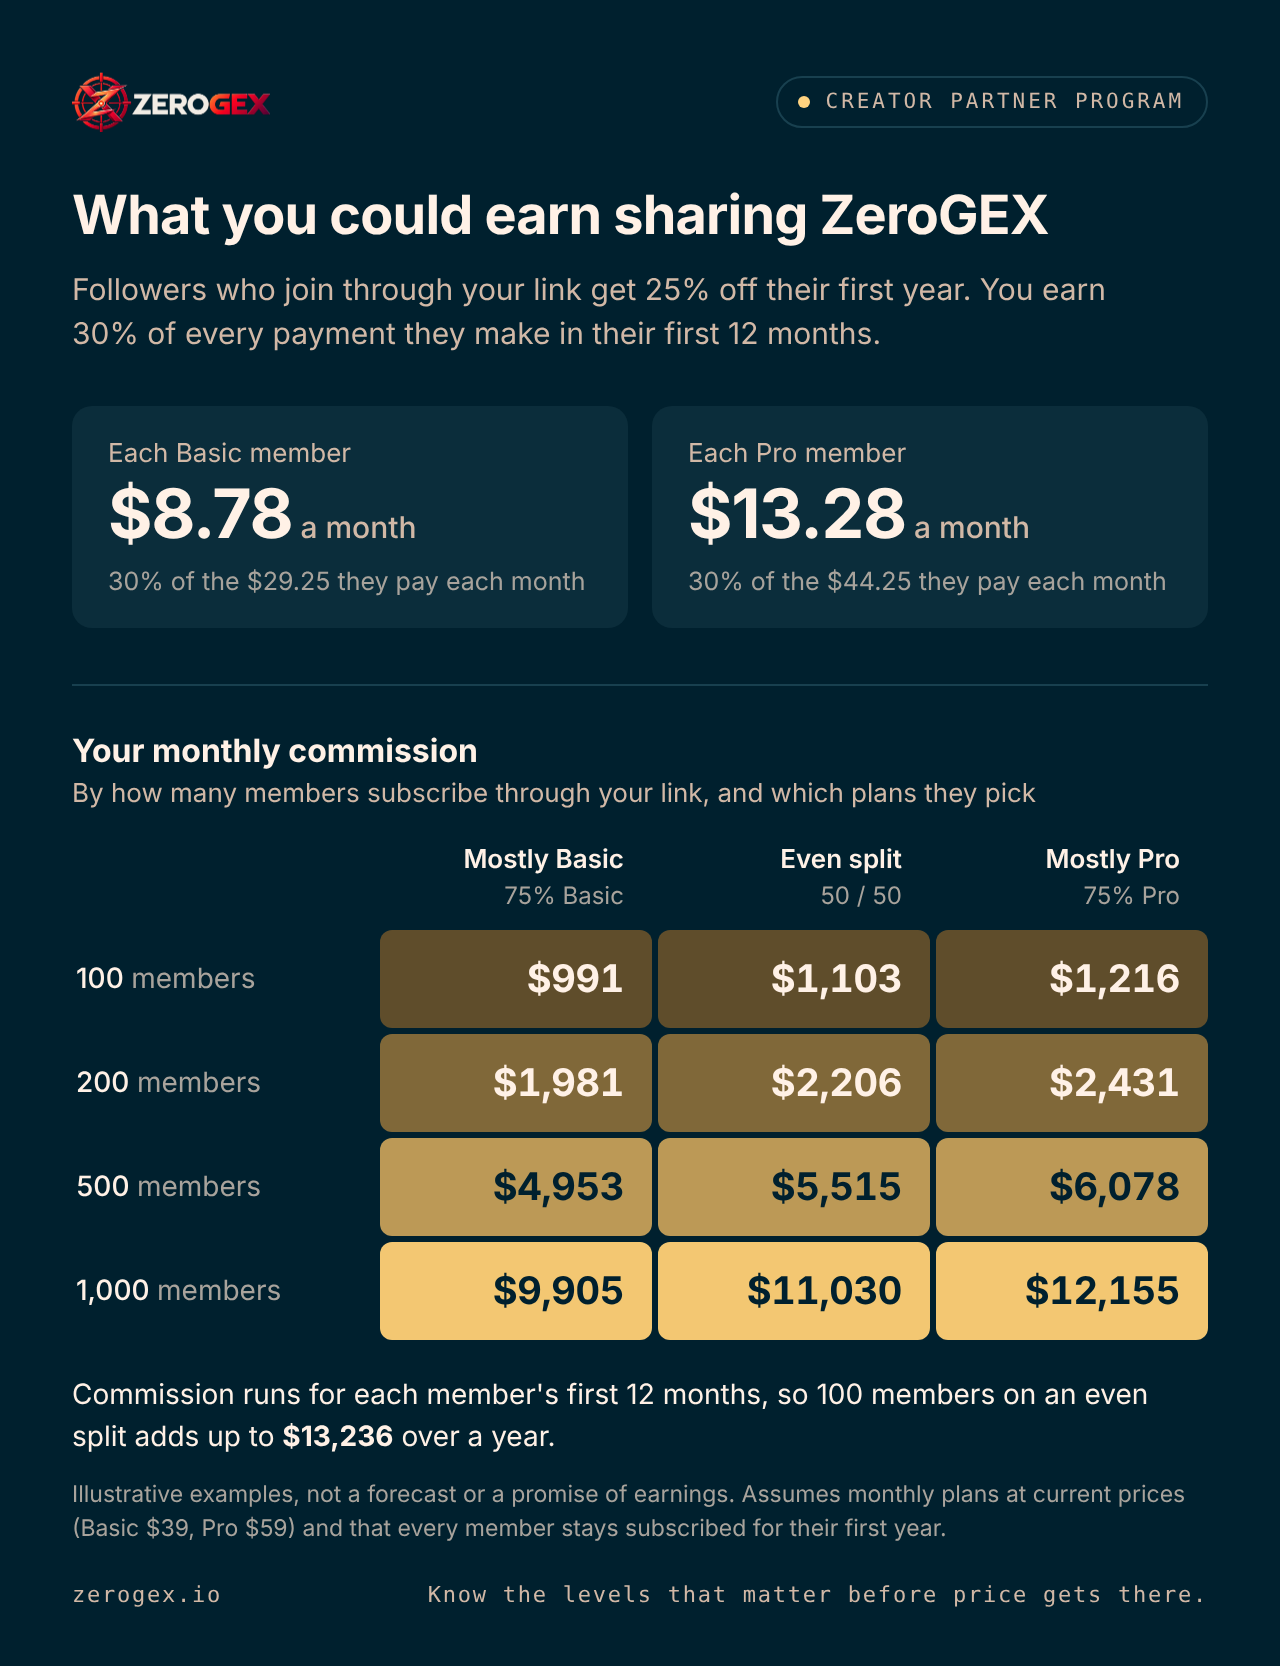
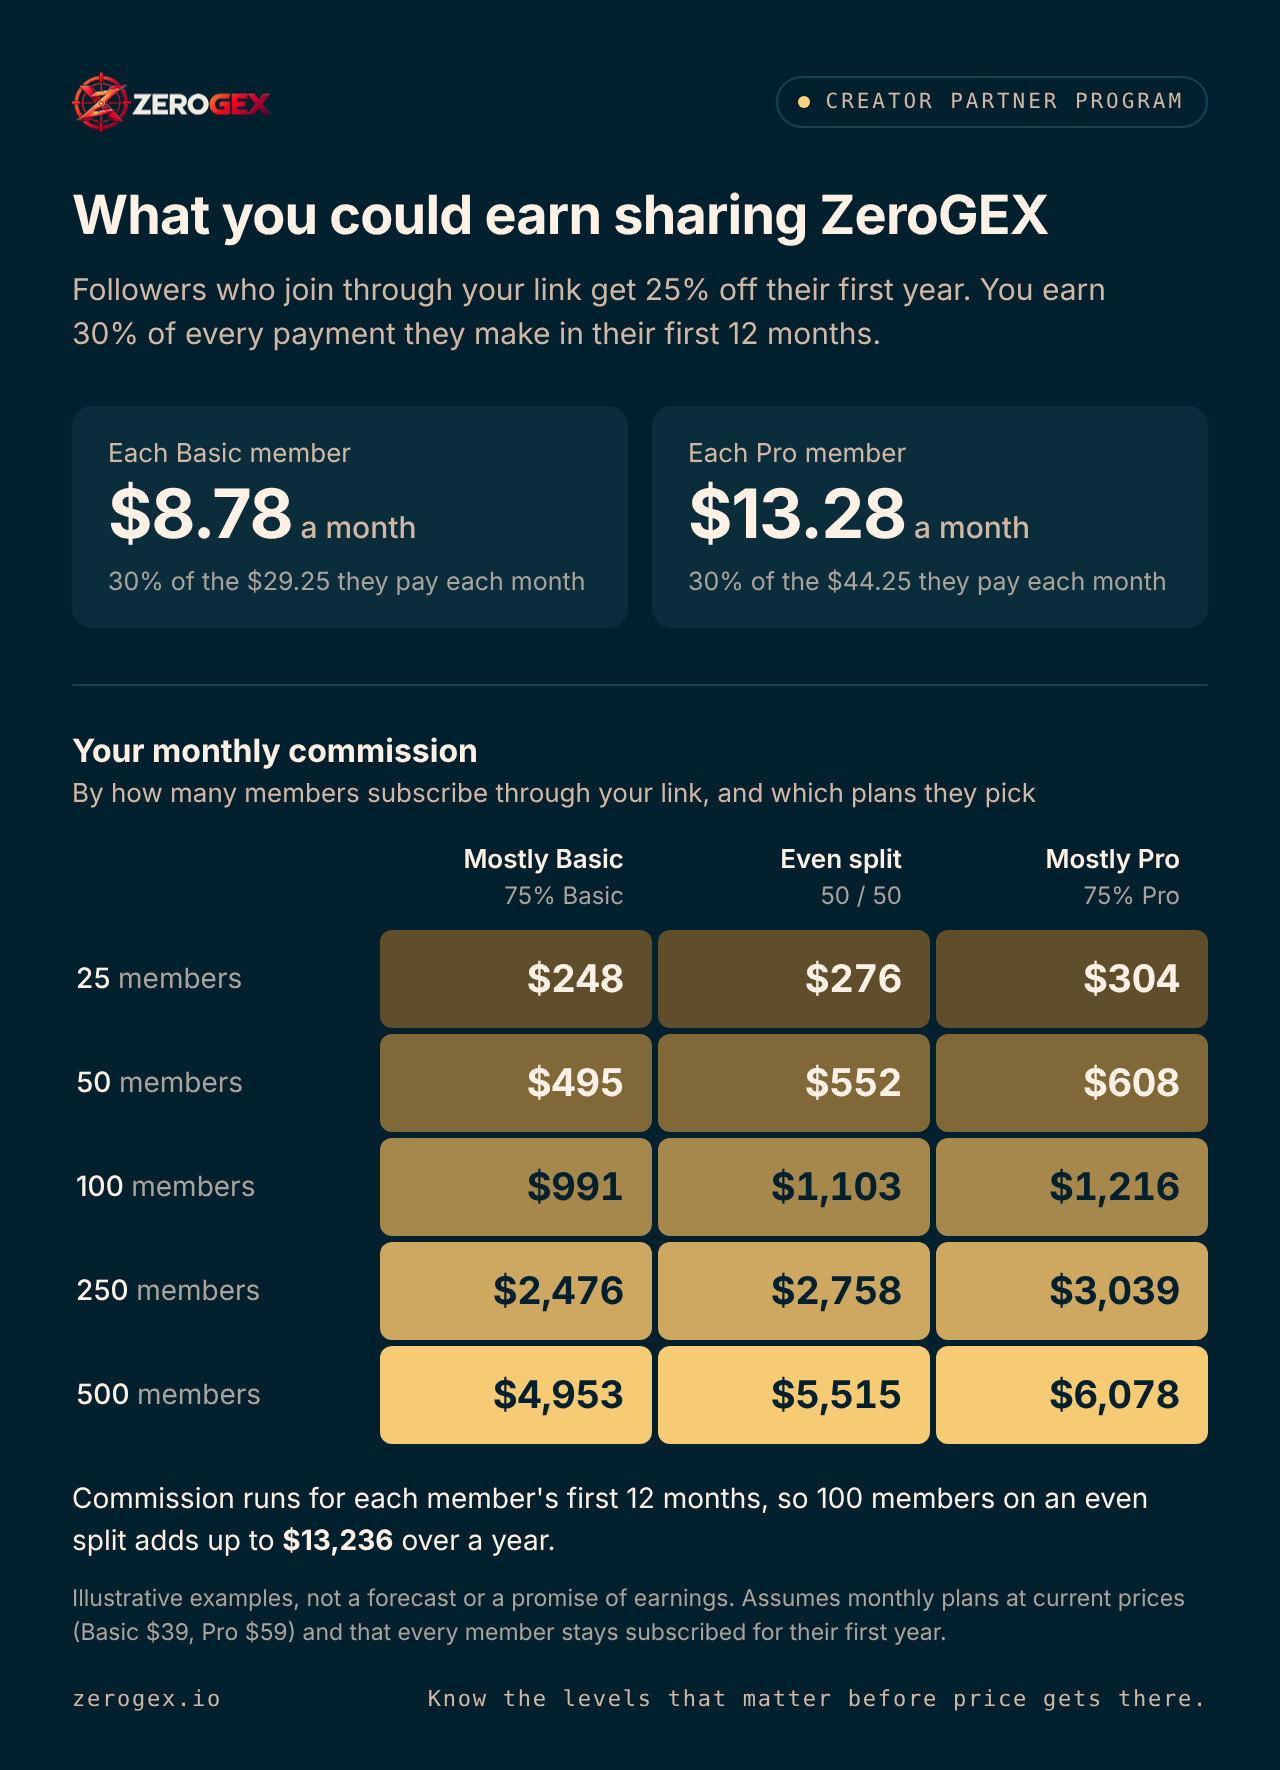
Creator commission image: rows for 25, 50, 100, 250 and 500 members
Smaller, more realistic audiences. The gold ramp gains a fifth step
(one hue, OKLCH h 82), re-validated as an ordinal ramp on the card
surface, with every cell's text at 4.5:1 or better.

Claude-Session: https://claude.ai/code/session_01794X9Jmqgt7EvSCN8mW4mM

diff --git a/docs/creator-partner-assets/commission-examples.html b/docs/creator-partner-assets/commission-examples.html
@@ -9,10 +9,10 @@
   at 2x from this folder:
 
     chromium --headless=new --allow-file-access-from-files --hide-scrollbars \
-      --force-device-scale-factor=2 --window-size=640,832 \
+      --force-device-scale-factor=2 --window-size=640,884 \
       --screenshot=commission-examples.png "file://$PWD/commission-examples.html"
 
-  If you change the copy, check the page height still fits the window (832).
+  If you change the copy, check the page height still fits the window (884).
 -->
 <style>
   :root {
@@ -27,8 +27,9 @@
     /* One-hue gold ramp, OKLCH h 82, validated as an ordinal ramp on --surface */
     --s1: #5f4d2b;
     --s2: #806839;
-    --s3: #bc9956;
-    --s4: #f3c772;
+    --s3: #a6874c;
+    --s4: #cea860;
+    --s5: #f7ca74;
     --sans: 'Inter', system-ui, -apple-system, 'Segoe UI', Helvetica, Arial, sans-serif;
     --mono: 'JetBrains Mono', 'DejaVu Sans Mono', ui-monospace, monospace;
   }
@@ -71,6 +72,7 @@
   td.s2 { background: var(--s2); color: var(--cream); }
   td.s3 { background: var(--s3); color: var(--surface); }
   td.s4 { background: var(--s4); color: var(--surface); }
+  td.s5 { background: var(--s5); color: var(--surface); }
 
   .year { margin-top: 14px; font-size: 14px; line-height: 1.5; color: var(--cream); }
   .year b { font-weight: 650; }
@@ -128,9 +130,9 @@
   const PRICE = { basic: 39, pro: 59 };   // monthly list price, USD (frontend/core/billingPlans.ts)
   const AUDIENCE_DISCOUNT = 0.25;         // STRIPE_COUPON_PARTNER_AUDIENCE: 25% off, first 12 months
   const COMMISSION_BPS = 3000;            // grant-partner-pro default: 30%
-  const MEMBERS = [100, 200, 500, 1000];
+  const MEMBERS = [25, 50, 100, 250, 500];
   const MIXES = [0.75, 0.5, 0.25];        // share on Basic: mostly Basic, even split, mostly Pro
-  const STEP = ['s1', 's2', 's3', 's4'];  // one ramp step per row (rows never overlap in value)
+  const STEP = ['s1', 's2', 's3', 's4', 's5'];  // one ramp step per row (rows never overlap in value)
 
   // Same arithmetic as core/creatorPartners.ts: commission is rounded per invoice,
   // in cents, on what the member actually paid after the discount.

diff --git a/docs/outreach/2026-10-16-gabriela-cboe-data-creator-offer.md b/docs/outreach/2026-10-16-gabriela-cboe-data-creator-offer.md
@@ -148,7 +148,7 @@ zerogex.io
 ## If she says she's a creator, or asks about the program
 
 Send `../creator-partner-assets/commission-examples.png` with the reply: the
-monthly commission at 100, 200, 500 and 1,000 paying members, mostly Basic to
+monthly commission at 25, 50, 100, 250 and 500 paying members, mostly Basic to
 mostly Pro, at today's prices and terms. Keep it for this second email rather
 than the first; in a reply to a cancellation, an earnings chart reads as a
 pitch. Its numbers come from the inputs at the bottom of
